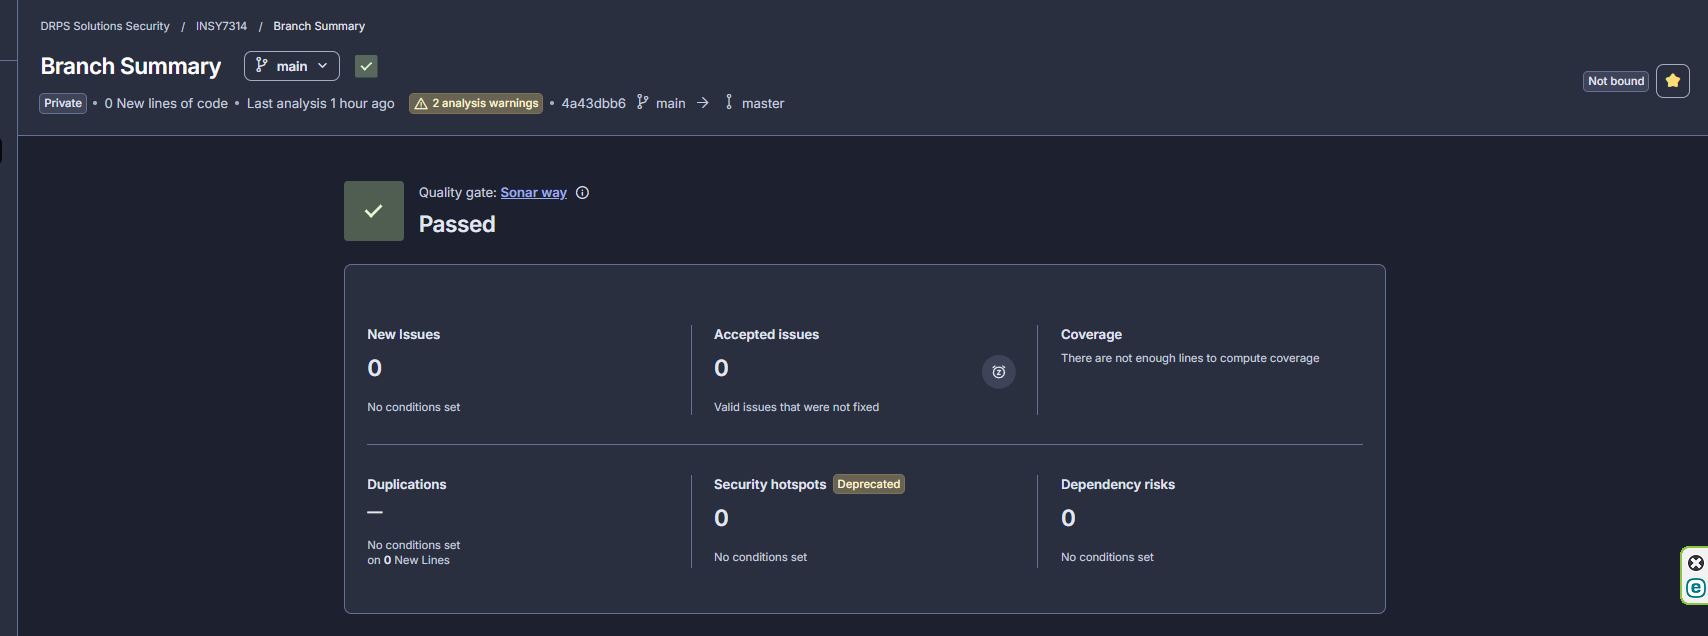
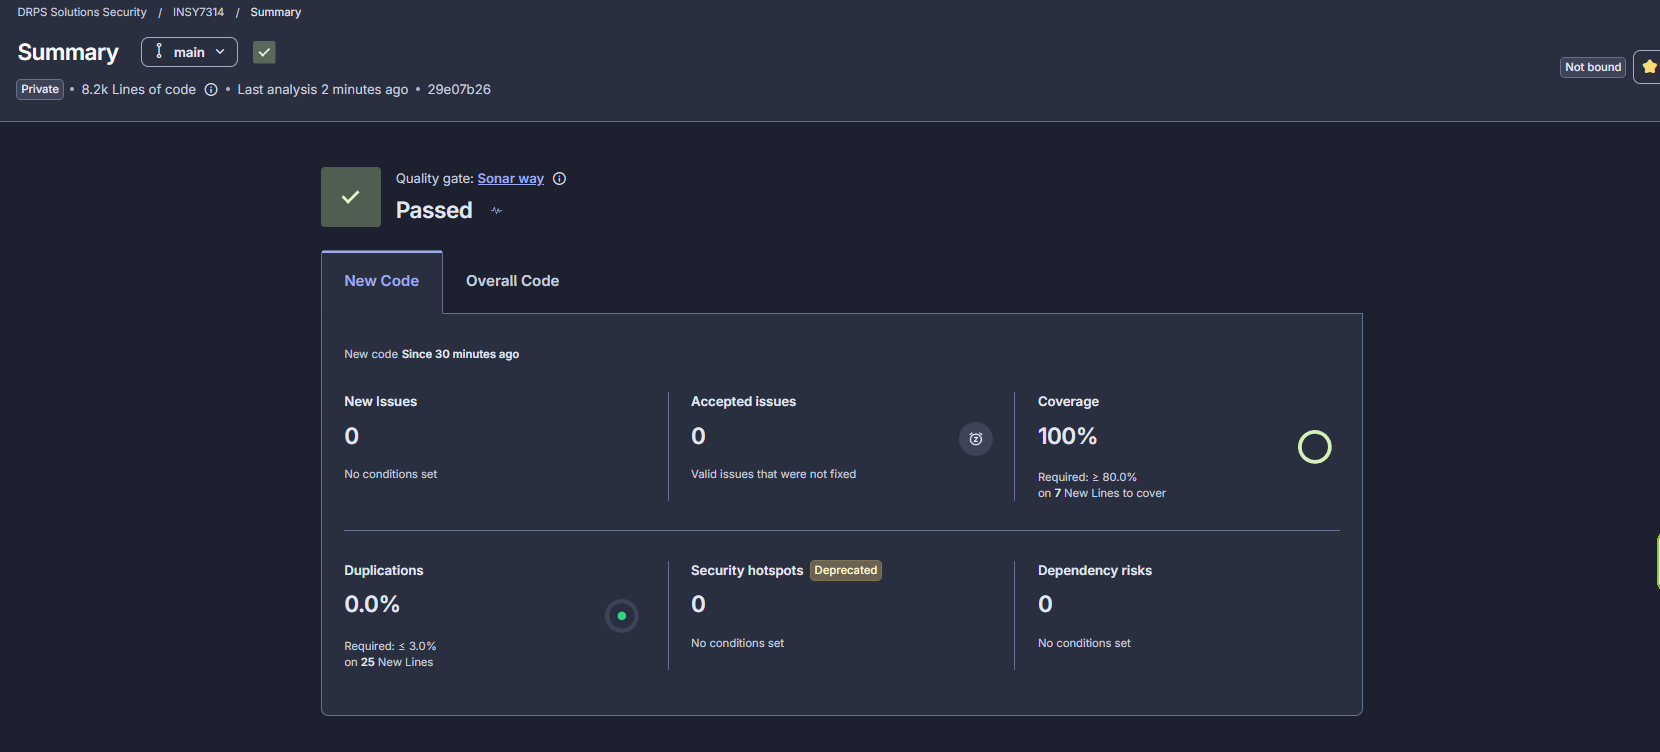
Document security fixes and expanded tests
Update the README with recent SonarQube fixes and three additional frontend test suites. Refresh the captured Vitest results and SonarQube screenshot.

diff --git a/README.md b/README.md
@@ -846,7 +846,7 @@ npm install
 npm run test:run
 ```
 
-`npm test` runs the same tests in watch mode. A captured run is committed at [frontend/test-results/vitest-run.txt](frontend/test-results/vitest-run.txt): **9 test files, 60 tests, 0 failures**. The CI pipeline runs `npm run test:run` in the frontend job, so a failing test fails the build.
+`npm test` runs the same tests in watch mode. A captured run is committed at [frontend/test-results/vitest-run.txt](frontend/test-results/vitest-run.txt): **12 test files, 69 tests, 0 failures**. The CI pipeline runs `npm run test:run` in the frontend job, so a failing test fails the build.
 
 | Test file | What it checks |
 |-----------|----------------|
@@ -856,7 +856,11 @@ npm run test:run
 | `Dashboard.test.jsx` | role-based navigation: client, freelancer and admin each see only their own tabs, and nothing outside the role is requested |
 | `AdminGigs.test.jsx` | admin removes a gig only after confirmation; a refused removal keeps the gig and shows the reason; the admin bookings list shows both parties and offers no status actions |
 | `AdminUsers.test.jsx` | user list, role filter and search; detail page; delete only after confirmation; refused deletes shown; no delete option for your own account |
+| `MfaPanel.test.jsx` | two-factor setup: admin warning while it is off; QR code and key after the password; wrong password and wrong code handled; recovery codes shown once; turning it off needs the password and a code |
+| `BookingsList.test.jsx` | a status change without confirmation is applied at once; a confirmed one waits for the dialog; an API refusal is shown and the buttons are enabled again |
+| `ReviewModal.test.jsx` | stars light up on hover and fall back to the chosen rating; a rating is required; the rating and trimmed comment are submitted |
 | `password.test.js` | password rule: accepted case plus too short, missing upper/lower/number, too long |
+| `months.test.js` | income chart window ends on the current or latest month with data; empty months are 0; totals per start month |
 | `api.test.js` | `4xx` messages shown; `429` friendly message; `5xx` never leaks server internals; `401` on a protected route signs the user out |
 
 ### End-to-end tests (Playwright)
@@ -914,7 +918,7 @@ The Classroom50 repository also has the `autograde.yaml` workflow that GitHub Cl
 
 ![CI/CD run on main with every job passing](Screenshots/CI/CI-run1.png)
 
-![Run summary: Vitest report with 60 of 60 frontend tests passing](Screenshots/CI/CI-run2.png)
+![Run summary: Vitest report with 60 of 60 frontend tests passing (the suite has since grown to 69)](Screenshots/CI/CI-run2.png)
 
 ![Artifacts uploaded by the run: coverage, Playwright, security scan and Semgrep reports](Screenshots/CI/CI-run3.png)
 
@@ -942,6 +946,14 @@ Every SonarQube Cloud code finding was fixed in the code, and none was marked as
 | Unhandled promise | Start-up in [server.js](API/server.js) could fail (database down, port in use) as an unhandled rejection, with no log line | Start-up errors and the server's `error` event are caught, logged as `server.start_failed`, sent to Grafana, and the process exits with code 1. The two fire-and-forget `flush()` calls in the logger are marked with `void`, because `flush()` catches its own errors | `2cedccc` |
 | S9379 (accessibility) | `autoFocus` on the MFA code field can disorient screen reader and keyboard users | Focus moves to the code field in an effect, only once the password step is done. A test checks the field receives focus | `8e66797` |
 | Prefer `Number.parseInt` | The global `parseInt` was used in the TOTP base32 helpers | Replaced with `Number.parseInt`. The behaviour is the same | `37207ad` |
+| S6470 (Docker build context) | Both Dockerfiles used `COPY . .`, which copies everything in the folder into the image. A new file such as a key or a `.env` would be added without anyone noticing | Each Dockerfile now copies only what the app needs: `server.js`, `app.js` and the six source folders for the API; `index.html`, `vite.config.js`, `public` and `src` for the client build. `.dockerignore` still applies as a second layer | `ed5db52` |
+| Docker `npm` lifecycle scripts | `npm ci` runs every package's install scripts, so a compromised dependency could run code while the image is built | `npm ci --ignore-scripts` in both Dockerfiles. No package the app installs needs an install script (the only one in the lockfile, `fsevents`, is macOS-only and is never installed on Alpine), and both images still build | `43e12fc` |
+| Sort without a compare function | The income chart found the latest month with a bare `.sort()` | Uses `localeCompare`. The month keys are zero-padded `YYYY-MM`, so the order is the same; `months.test.js` checks the chart window | `ed5db52` |
+| Floating promises | Two booking status changes in `BookingsList.jsx` called an `async` function without handling its promise | Marked with `void`, because `apply` catches every error itself and shows it to the user. `BookingsList.test.jsx` checks the direct action, the confirmed action and the error message | `ad705a3` |
+| Slow regular expression (ReDoS) | The sign-up email check `^\S+@\S+\.\S+$` backtracks, because `\S` also matches `.`. A long input of dots took 736&nbsp;ms | The pattern keeps `@` out of the local part and `.` out of each domain label, so it cannot backtrack: the same input now takes 1&nbsp;ms. It also rejects `a@b..c` and `a@b@c.d`, which the old one let through. The API still runs `validator.isEmail` | `cb3c74d` |
+| Accessibility: radiogroup must be focusable | The star rating's `radiogroup` had a mouse handler but could not take focus | The handler moved onto each star, which are focusable buttons, so the group itself has none. The stars now touch, so the highlight does not flicker between them. `ReviewModal.test.jsx` checks hovering and leaving | `4b5764c` |
+| Framework version disclosure | Express sends `X-Powered-By: Express` by default. Helmet already removed it, but in another file | `app.disable("x-powered-by")` in `app.js`, so the header stays off even if the Helmet settings change | `29e07b2` |
+| Quality gate: coverage on new code | The fixes above added lines that no test ran, so new-code coverage was 42.9% against the required 80% | New Vitest files for `months.js`, `BookingsList.jsx` and `ReviewModal.jsx`. Coverage on new code is now 100% and the quality gate passes | `29e07b2` |
 
 ### Dependency Risks
 SonarQube Cloud's dependency scan looks at all 319 packages the app installs, including packages pulled in by other packages, which is where both risks were found.
